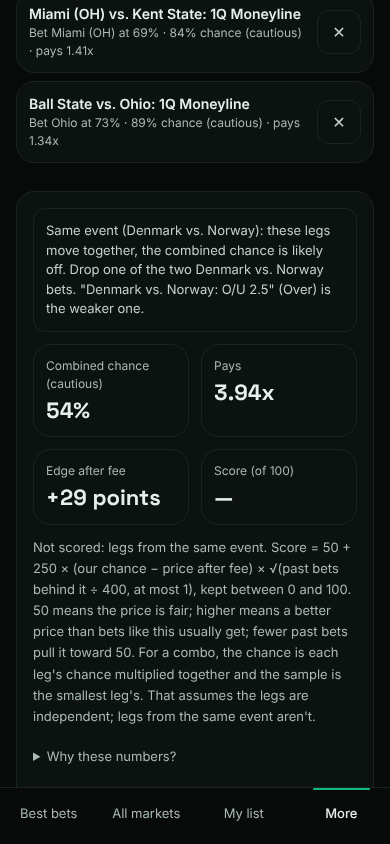
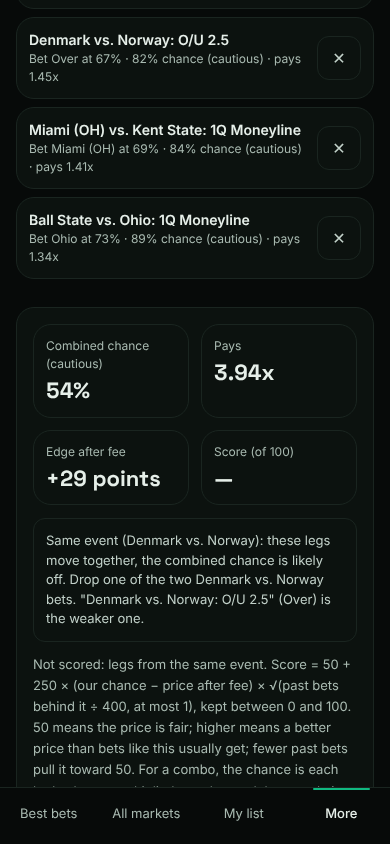
T-wt3e: keep the same-event note below the button block, reserve one slot height instead
The note above the button pushed 'Check this combo' below the fold at 390 (wt3-combo-entry daily-limit spec scrolled).
The button block and the numbers that replace it now share one fixed-height slot, so the note below it does not move.

Claude-Session: https://claude.ai/code/session_01Xq7uwd4fAao58TRNq55oo4

diff --git a/apps/web/components/check/ComboClient.tsx b/apps/web/components/check/ComboClient.tsx
@@ -259,13 +259,8 @@ export function ComboClient({ reserve = 0 }: { reserve?: number }) {
         )}
         {legs.length < MIN_COMBO_LEGS && <p data-testid="combo-msg" className="text-sm text-soft">{legs.length === 0 ? "Add at least two bets to check a combo." : "Add at least one more leg."}</p>}
         {legs.length < MIN_COMBO_LEGS && <p data-testid="combo-how" className="text-[13px] leading-relaxed text-muted">How it works: every leg has to win, so the chances multiply and so do the payouts.</p>}
-        {/* known from the event ids alone, so it shows as soon as two legs share an event: no check is spent for it. It sits ABOVE the "Check this combo" block, which collapses when the
-            result lands, so the note keeps its place (T-wt3e); once scored it also names the weaker of the pair */}
-        {sameNow.length > 0 && (
-          <p data-testid="combo-same-event" className="rounded-input border border-border bg-bg p-3 text-[13px] text-soft">
-            Same event ({sameNow.map(cleanEventLine).join(", ")}): these legs move together, the combined chance is likely off. {sameEventAdvice(ready ? combos : legs).join(" ")}
-          </p>
-        )}
+        {/* one height for the button block and the numbers that replace it (181 px on a phone, 100 from 768): with a same-event note below, it cannot move (T-wt3e) */}
+        <div data-testid="combo-slot" className={`flex flex-col gap-3 ${sameNow.length > 0 ? "min-h-[182px] md:min-h-[100px]" : ""}`}>
         {legs.length >= MIN_COMBO_LEGS && !ready && !limit && (
           <div className="flex flex-col items-start gap-2">
             <p data-testid="combo-msg" className="text-sm text-soft">{scoring ? "Scoring your combo…" : "Ready when you are."}</p>
@@ -275,13 +270,23 @@ export function ComboClient({ reserve = 0 }: { reserve?: number }) {
         )}
         {ready && c.error === "no_model" && <p data-testid="combo-msg" className="text-sm text-soft">No model chance for &ldquo;{c.noModel}&rdquo;, so this combo can&apos;t be scored. Remove that leg.</p>}
         {n && (
-          <>
             <dl className="grid grid-cols-2 gap-3 md:grid-cols-4">
               <Stat id="chance" label="Combined chance (cautious)" value={pct(n.chance)} />
               <Stat id="mult" label="Pays" value={multX(n.multiplier)} />
               <Stat id="edge" label="Edge after fee" value={pts(n.edge)} />
               <Stat id="score" label="Score (of 100)" value={n.score === null ? "—" : String(n.score)} />
             </dl>
+        )}
+        </div>
+        {/* known from the event ids alone, so it shows as soon as two legs share an event: no check is spent for it. Once scored it also names the weaker of the pair. It follows the "Check this combo" / numbers slot below, which holds one height
+            (T-wt3e), so the note stays put when the result lands */}
+        {sameNow.length > 0 && (
+          <p data-testid="combo-same-event" className="rounded-input border border-border bg-bg p-3 text-[13px] text-soft">
+            Same event ({sameNow.map(cleanEventLine).join(", ")}): these legs move together, the combined chance is likely off. {sameEventAdvice(ready ? combos : legs).join(" ")}
+          </p>
+        )}
+        {n && (
+          <>
             <p data-testid="combo-formula" className="text-[13px] leading-relaxed text-muted">{c.scoreNote ? `${c.scoreNote}. ` : ""}{SCORE_FORMULA} For a combo, the chance is each leg&apos;s chance multiplied together and the sample is the smallest leg&apos;s. That assumes the legs are independent; legs from the same event aren&apos;t.</p>
             {c.drop && dropLeg && c.drop.numbers.score !== null && n.score !== null && c.drop.numbers.score > n.score && (
               <div data-testid="combo-drop" className="flex flex-col gap-2 rounded-input border border-accent-border bg-bg p-3">
